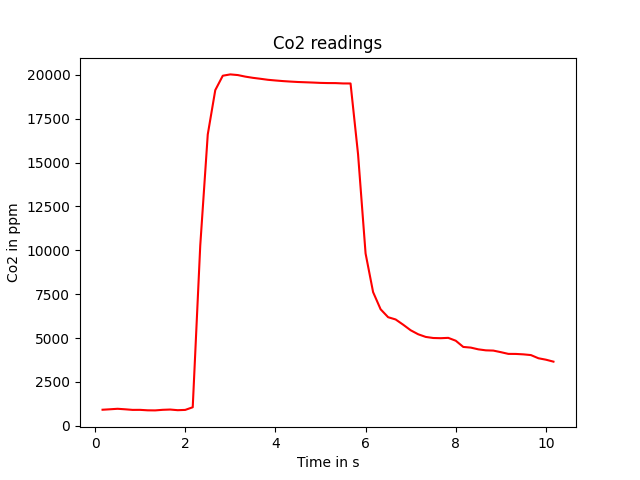
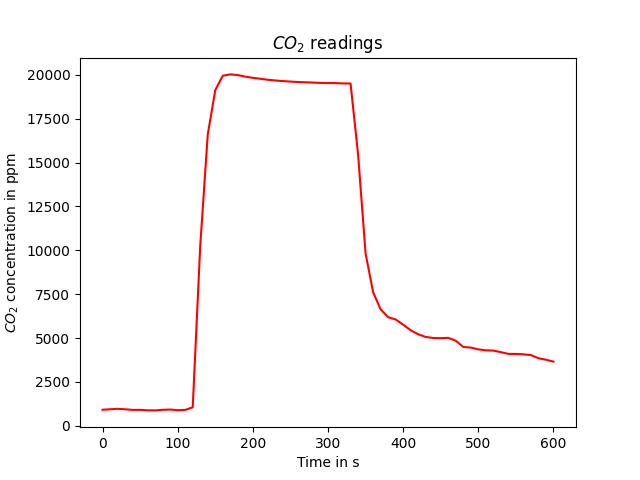
updated graphs

diff --git a/Module_3/Task2/task2_read.py b/Module_3/Task2/task2_read.py
@@ -58,19 +58,20 @@ else:
     np.savez(file,voc=voc , co2 = co2 , accuracy = accuracy  )
 
 
-range = np.arange(10 , (voc.size*10)+10, 10)/60
+range = (np.arange(0 , (voc.size)*10 , 10))
+
 
 plt.figure(1)
 plt.plot(range , voc , color = 'red')
 plt.xlabel('Time in s')
-plt.ylabel("VOC in ppm" )
+plt.ylabel("VOC concentration in ppm" )
 plt.title('VOC readings')
 plt.savefig(ex_name+'voc' )
 
 plt.figure(2)
 plt.plot(range , co2 , color = 'red')
 plt.xlabel('Time in s')
-plt.ylabel(r'$CO_2$ in ppm' )
+plt.ylabel(r'$CO_2$ concentration in ppm' )
 plt.title(r'$CO_2$ readings')
 plt.savefig(ex_name+'co2')
 
